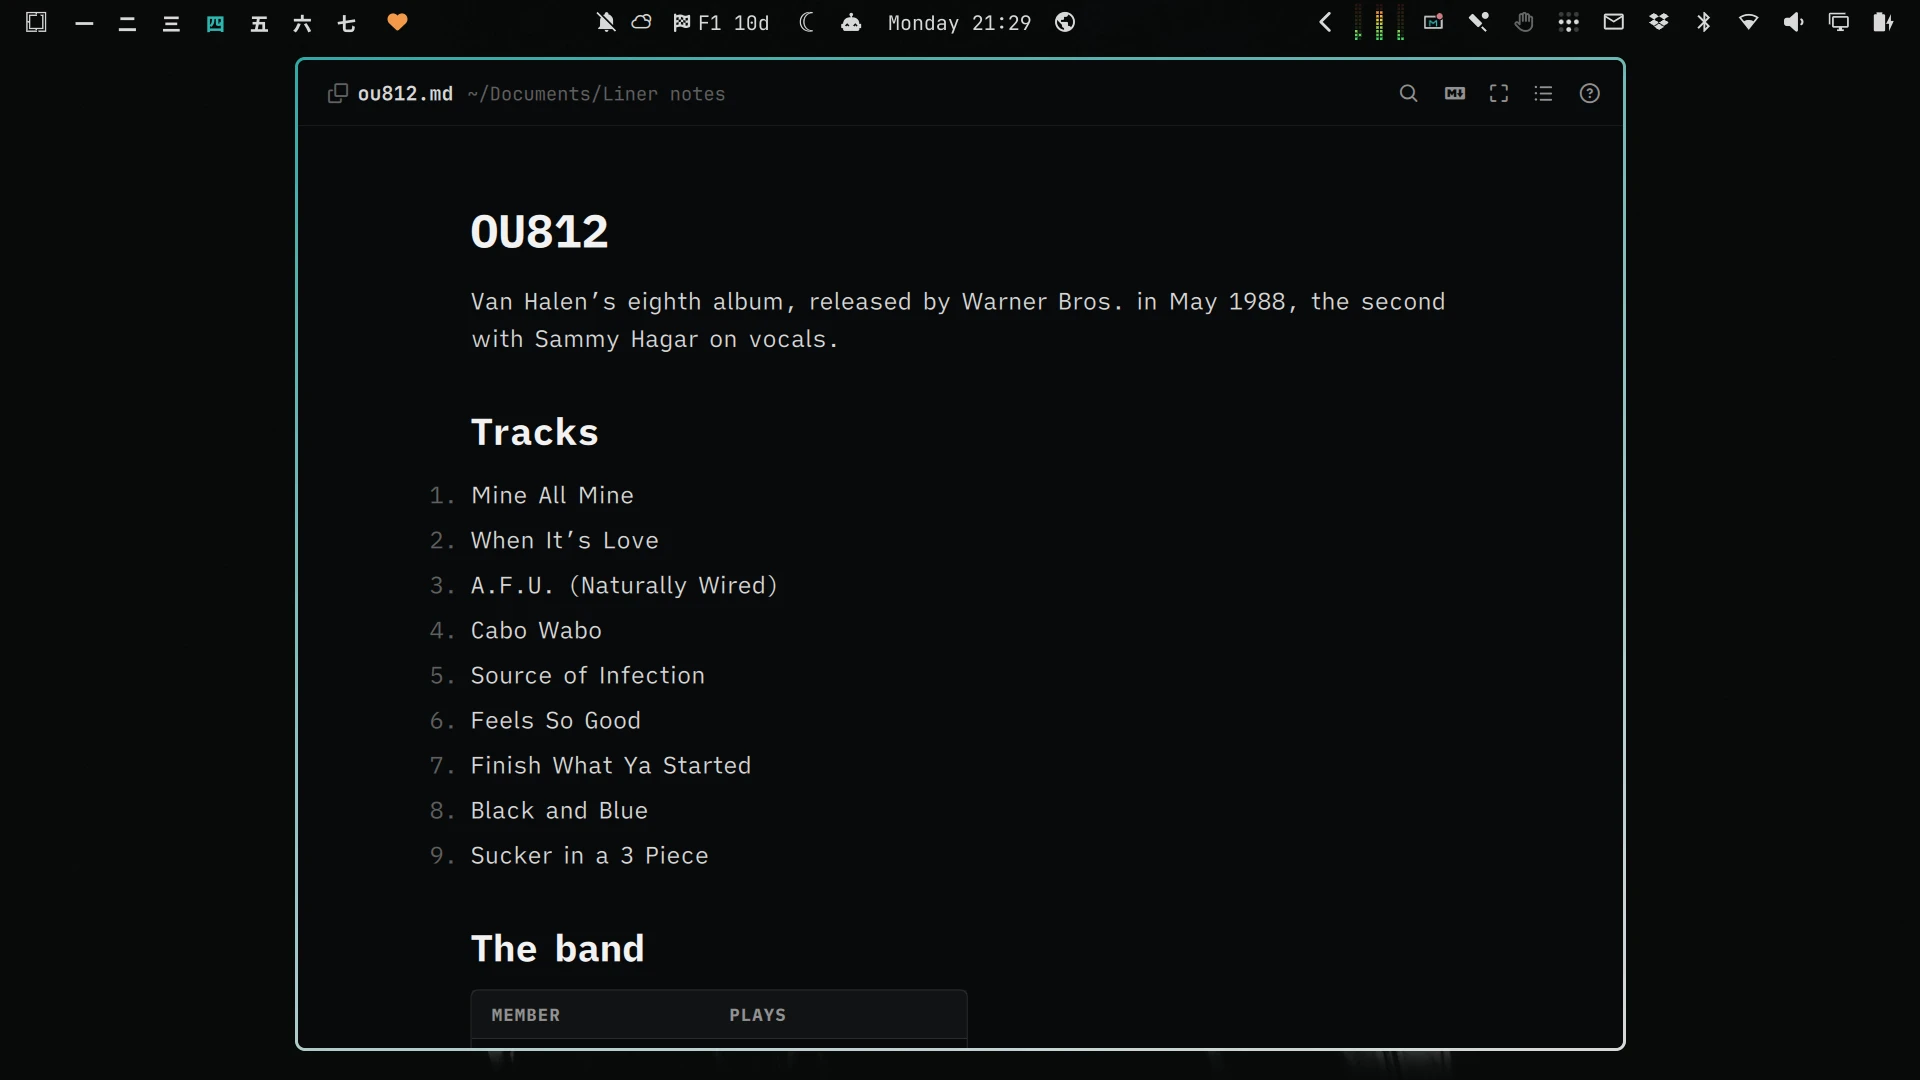
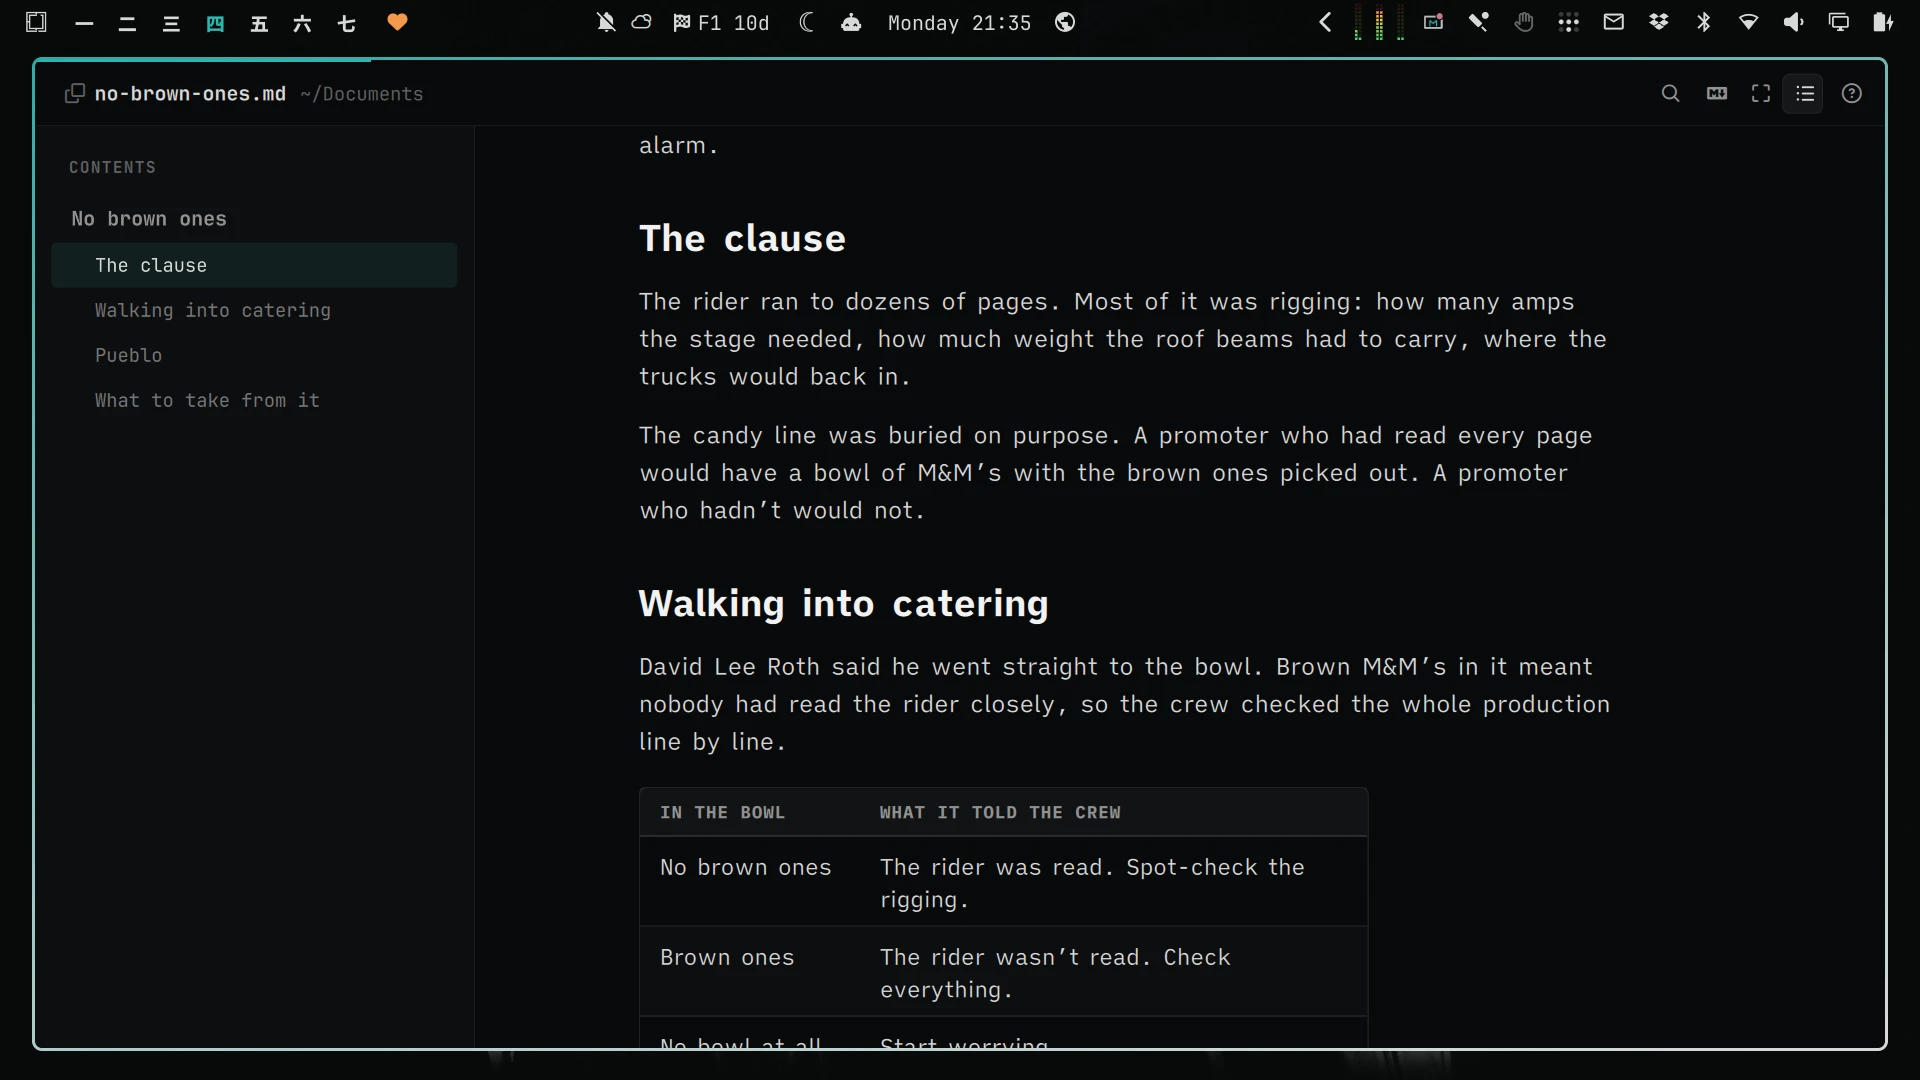
Reader shot with a proper document and the outline

diff --git a/README.md b/README.md
@@ -10,8 +10,6 @@ An [Omarchy](https://omarchy.org/) theme from the cover of Van Halen's *OU812* (
 omarchy theme install https://github.com/keithrowell/omarchy-ou812-theme
 ```
 
-The theme applies as soon as it installs.
-
 ## Backgrounds
 
 <p>
